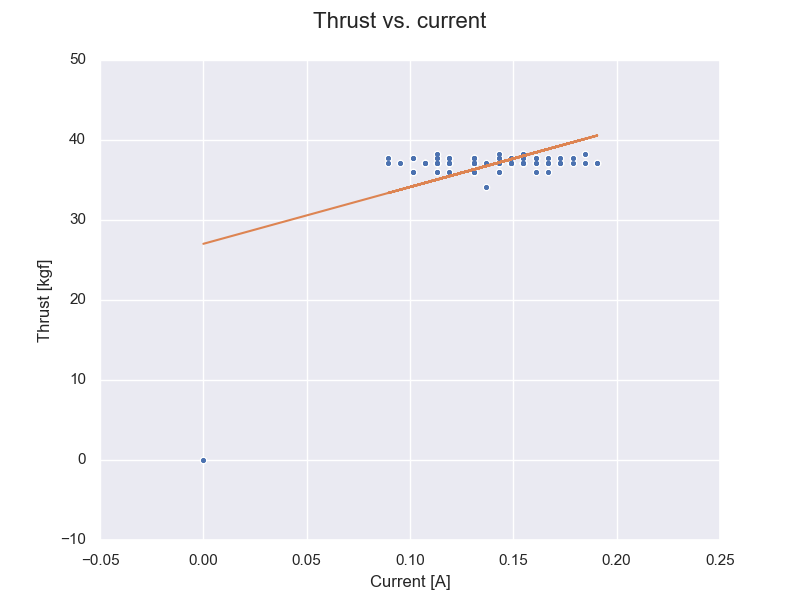
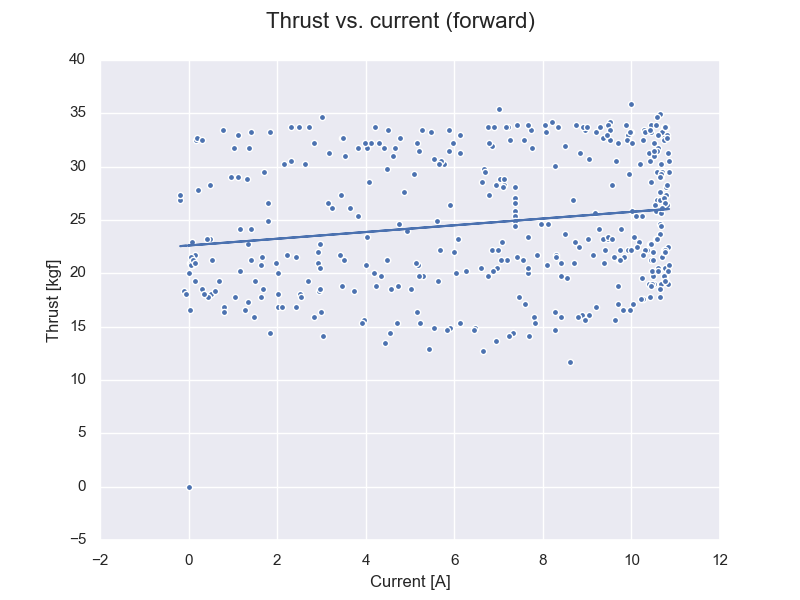
Push for 2022-06-21

diff --git a/main.py b/main.py
@@ -99,15 +99,6 @@ axt[1].set_ylabel("Voltage (raw) [A]")
 axt[2].plot(df_data.index, df_data["Force"], '.') # Force/thrust vs. time scatter
 axt[2].set_ylabel("Force (raw) [kgf]")
 
-### Graph thrust vs. current using Matplotlib ###
-figc = plt.figure()
-figc.suptitle("Thrust vs. current", fontsize = 16)
-axc = plt.axes()
-
-axc.plot(df_data["Current"], df_data["Force"], '.')
-axc.set_ylabel("Thrust [kgf]")
-axc.set_xlabel("Current [A]")
-
 # For power, I need to figure out how to plot max power for reverse direction (this will do for now)
 pmin = power[0]
 for i in range(len(power)):
@@ -118,21 +109,65 @@ peaks = np.array([np.amax(force), np.amax(current), np.amax(voltage), np.amax(po
 troughs = np.array([abs(np.min(force)), abs(np.amin(current)), abs(np.amin(voltage)), pmin])
 df_extrema = pd.DataFrame({"Max forward (raw)": peaks, "Max reverse (raw)": troughs}, index = ["Force", "Current", "Voltage", "Power"])
 
-### Use Linear Regression to determine thrust vs. current slope (forward and reverse) ###
-# Determine only forward direction current/thrust values
-# Determine only reverse direction current/thrust values
-# Will have to somehow figure out how to compute length of dead band using line intercepts
-# Use current as an indicator of when the motor is in reverse direction, and then match these indices
-# the thrust value -> split up the graph into reverse and forward directions this way
-slope, intercept, r, p, std_err = stats.linregress(current, force)
+### Graph thrust vs. current using Matplotlib ###
+# Eventually use zero cross method to "overlay periods" by taking averages (assume phase shift is zero)
+
+# Seperate forward/reverse direction current, thrust and voltage values, use voltage plot as the zero cross reference
+num_periods = 5
+current_f = []; force_f = []; voltage_f = []
+current_r = []; force_r = []; voltage_r = []
+i = j = 0
+
+while(voltage[i] < 0 and i < len(voltage) - 1): i += 1 # get to zero cross of voltage graph
+for j in range(num_periods):
+    while(voltage[i] >= 0 and i < len(voltage) - 1): # get forward current, force and voltage values
+        current_f.append(current[i])
+        force_f.append(force[i])
+        voltage_f.append(voltage[i])
+        i += 1
+    while(voltage[i] < 0 and i < len(voltage) - 1): # get reverse current, force and voltage values
+        current_r.append(current[i])
+        force_r.append(force[i])
+        voltage_r.append(voltage[i])
+        i += 1
+
+# Convert lists to NumPy arrays
+current_f = np.array(current_f); force_f = np.array(force_f); voltage_f = np.array(voltage_f)
+current_r = np.array(current_r); force_r = np.array(force_r); voltage_r = np.array(voltage_r)
+
+### Use Linear Regression to determine thrust vs. current slopes (forward and reverse) ###
+# Determine forward direction thrust vs. current trendline
+slope, intercept, r, p, std_err = stats.linregress(current_f, force_f)
 
 def myfunc(current):
   return slope * current + intercept
+mymodel_f = list(map(myfunc, current_f))
 
-mymodel = list(map(myfunc, current))
+# Determine reverse direction thrust vs. current trendline
+slope, intercept, r, p, std_err = stats.linregress(current_r, force_r)
+mymodel_r = list(map(myfunc, current_r))
 
-plt.scatter(current, force)
-plt.plot(current, mymodel)
+# Graph forward direction thrust vs. current
+figc_f = plt.figure()
+figc_f.suptitle("Thrust vs. current (forward)", fontsize = 16)
+axc_f = plt.axes()
+
+axc_f.set_ylabel("Thrust [kgf]")
+axc_f.set_xlabel("Current [A]")
+
+plt.scatter(current_f, force_f)
+plt.plot(current_f, mymodel_f) # overlays trendline on Thrust vs. current scatter plot 
+
+# Graph reverse direction thrust vs. current
+figc_r = plt.figure()
+figc_r.suptitle("Thrust vs. current (reverse)", fontsize = 16)
+axc_r = plt.axes()
+
+axc_r.set_ylabel("Thrust [kgf]")
+axc_r.set_xlabel("Current [A]")
+
+plt.scatter(current_r, force_r)
+plt.plot(current_r, mymodel_r)
 
 ### Determine thrust vs. current intercepts -> get length of dead band ###
 
@@ -140,7 +175,7 @@ plt.plot(current, mymodel)
 if not os.path.isdir(my_path + data_folder + fig_folder):
     os.makedirs(my_path + data_folder + fig_folder)
 figt.savefig(my_path + data_folder + fig_folder + ts_file)
-figc.savefig(my_path + data_folder + fig_folder + ct_file)
+figc_f.savefig(my_path + data_folder + fig_folder + ct_file)
 
 with open(my_path + data_folder + "\\extrema.txt", mode = 'w') as file_object:
     print(df_extrema, file = file_object)
